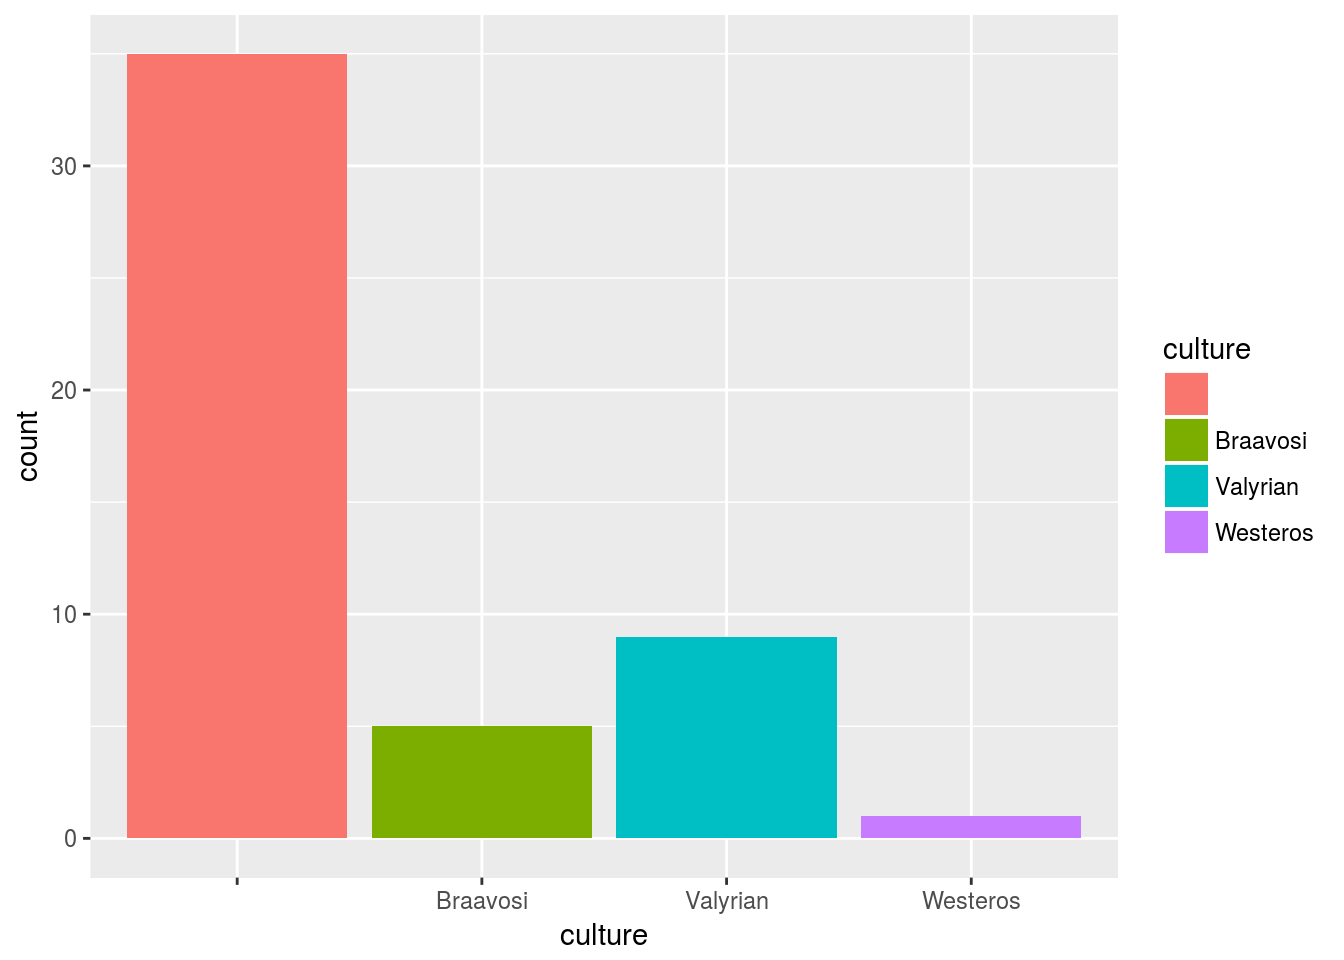
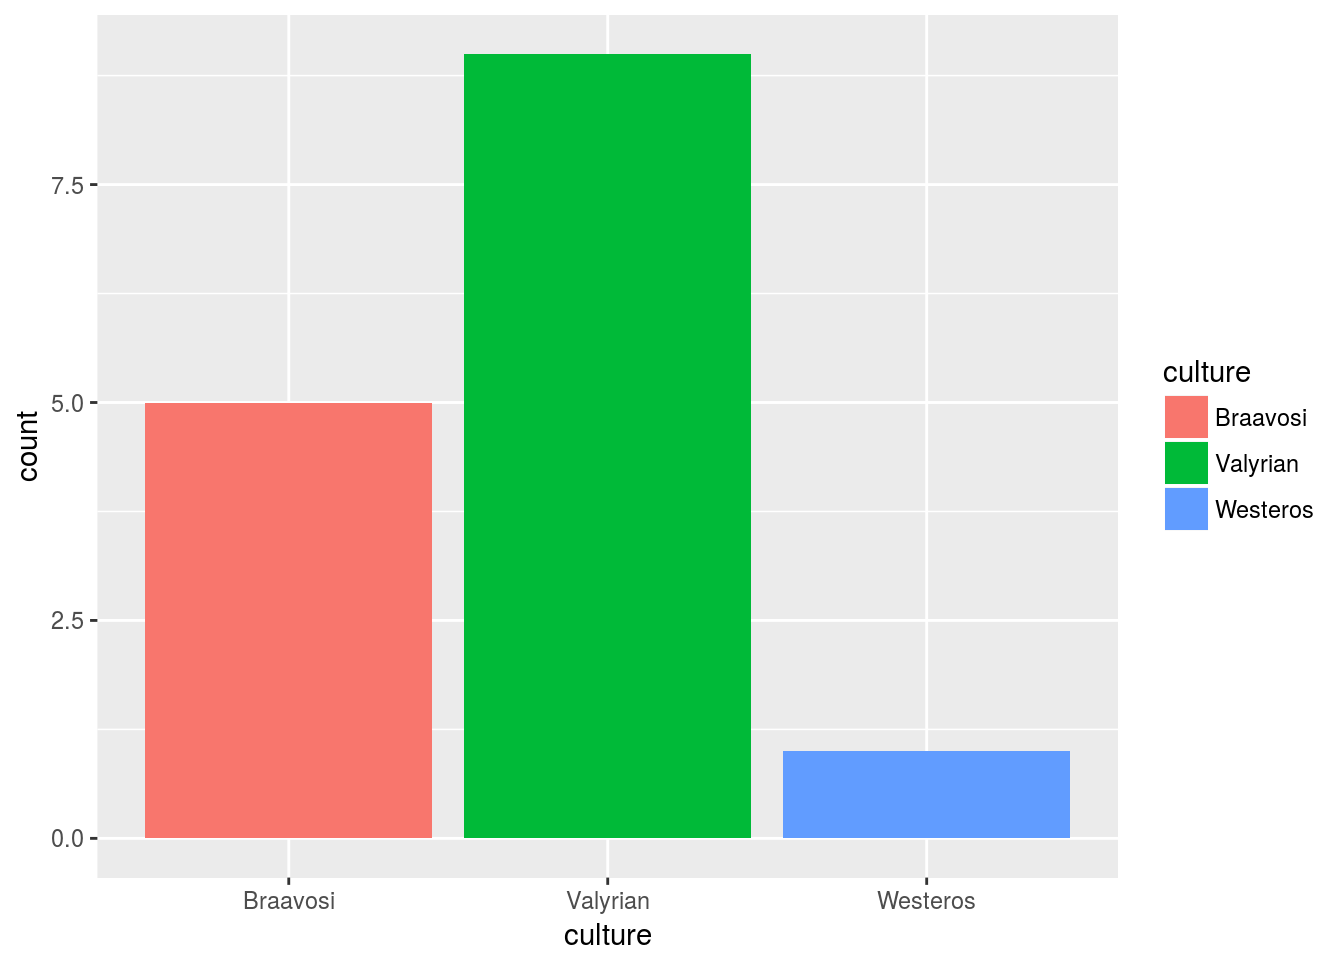
edited wrangling blog

diff --git a/public/posts/data-wrangling/index.html b/public/posts/data-wrangling/index.html
@@ -284,28 +284,27 @@ dummy_data_2 </code></pre>
 <pre><code>## # A tibble: 26 x 5
 ##    shop  churn_rate attrition join_rate sales
 ##    &lt;chr&gt;      &lt;dbl&gt;     &lt;dbl&gt;     &lt;dbl&gt; &lt;dbl&gt;
-##  1 A         0.816     0.0599    0.748   1782
-##  2 B         0.917     0.904     0.856   1621
-##  3 C         0.227     0.905     0.189  47083
-##  4 D         0.0998    0.306     0.989  33752
-##  5 E         0.358     0.664     0.426  38972
-##  6 F         0.701     0.514     0.826  48892
-##  7 G         0.0605    0.297     0.172  52671
-##  8 H         0.703     0.715     0.0578  6049
-##  9 I         0.216     0.556     0.0117 25885
-## 10 J         0.169     0.0167    0.652  18082
+##  1 A          0.378     0.698    0.663  13458
+##  2 B          0.671     0.722    0.0411 45121
+##  3 C          0.125     0.148    0.981  13213
+##  4 D          0.320     0.212    0.476  12900
+##  5 E          0.570     0.632    0.0736  4598
+##  6 F          0.585     0.655    0.417  28275
+##  7 G          0.946     0.872    0.633   3052
+##  8 H          0.332     0.706    0.207   4079
+##  9 I          0.481     0.550    0.212  38775
+## 10 J          0.412     0.603    0.807  30924
 ## # ... with 16 more rows</code></pre>
 <p>If we wanted to take the each shop row and multiply the columns together to find the multiplicative affect how would we do it?</p>
 <p>One way to do this is to use some form of apply function:</p>
 <pre class="r"><code>dummy_data_2 %&gt;%
   select(-1) %&gt;% 
   apply(function(x) prod(x),MARGIN = 1)</code></pre>
-<pre><code>##  [1]    65.13870  1151.37363  1827.84636  1021.85299  3946.76891
-##  [6] 14551.78797   162.76008   175.94442    36.40378    33.33664
-## [11]    99.92195  1182.09327    32.49529  1256.86748   336.57108
-## [16] 11513.52019  5213.89781    53.11338  2558.59682   384.98485
-## [21] 14616.62284   113.90007  3258.42216    15.73666  7553.95365
-## [26]   280.28230</code></pre>
+<pre><code>##  [1] 2354.20848  898.83070  240.11499  414.98638  121.94412 4519.44534
+##  [7] 1594.12227  197.32160 2177.76869 6194.68841 1230.71328  232.19827
+## [13] 8554.58622 1373.46879 2637.84225 9230.19167 4443.06977 3761.06395
+## [19] 1672.07343   31.21451 9297.11250 5828.84597  655.61483 3620.88779
+## [25]  148.30688 9168.15598</code></pre>
 <p>This feels sort of ugly and returns a vector… We would prefer to remain type stable here inside a dataframe.</p>
 <p>We could simply reshape this data so that we are infact summarizing over rows not columns:</p>
 <pre class="r"><code>dummy_data_2 %&gt;% 
@@ -313,18 +312,18 @@ dummy_data_2 </code></pre>
   group_by(shop) %&gt;% 
   summarise(prod = value %&gt;% prod)</code></pre>
 <pre><code>## # A tibble: 26 x 2
-##    shop     prod
-##    &lt;chr&gt;   &lt;dbl&gt;
-##  1 A        65.1
-##  2 B      1151  
-##  3 C      1828  
-##  4 D      1022  
-##  5 E      3947  
-##  6 F     14552  
-##  7 G       163  
-##  8 H       176  
-##  9 I        36.4
-## 10 J        33.3
+##    shop   prod
+##    &lt;chr&gt; &lt;dbl&gt;
+##  1 A      2354
+##  2 B       899
+##  3 C       240
+##  4 D       415
+##  5 E       122
+##  6 F      4519
+##  7 G      1594
+##  8 H       197
+##  9 I      2178
+## 10 J      6195
 ## # ... with 16 more rows</code></pre>
 <p>By reshaping the data we remain inside of a tidy context while leveraging our sql like backend <code>dplyr</code> to solve the problem</p>
 </div>
@@ -566,30 +565,65 @@ data_characters[[1]]</code></pre>
 <p>Put this into a dataframe:</p>
 <pre class="r"><code>GOT_df &lt;-
   tibble::tibble(char_name = data_characters %&gt;% map_chr(&quot;name&quot;),
-                 data_char = data_characters)
+                 data_char = data_characters) %&gt;% 
+    mutate(gender = data_char %&gt;% map_chr(&quot;gender&quot;)) %&gt;% 
+    mutate(culture = data_char %&gt;% map_chr(&quot;culture&quot;)) %&gt;% 
+    mutate(born = data_char %&gt;% map_chr(&quot;born&quot;)) %&gt;% 
+    mutate(died = data_char %&gt;% map_chr(&quot;died&quot;)) %&gt;% 
+    mutate(titles = data_char %&gt;% map(&quot;titles&quot;)) %&gt;% 
+    mutate(aliases = data_char %&gt;% map(&quot;aliases&quot;)) %&gt;% 
+    mutate(father = data_char %&gt;% map_chr(&quot;father&quot;)) %&gt;% 
+    mutate(mother = data_char %&gt;% map_chr(&quot;mother&quot;)) %&gt;% 
+    # mutate(spouse = data_char %&gt;% map(~.x %&gt;% pluck(&quot;spouse&quot;) %&gt;% httr::GET())) %&gt;% 
+    # mutate(allegiances = data_char %&gt;% map(~.x %&gt;% pluck(&quot;allegiances&quot;) %&gt;% httr::GET())) %&gt;%
+    mutate(playedBy = data_char %&gt;% map(&quot;playedBy&quot;))
 
 GOT_df</code></pre>
-<pre><code>## # A tibble: 50 x 2
-##    char_name data_char  
-##    &lt;chr&gt;     &lt;list&gt;     
-##  1 &quot;&quot;        &lt;list [16]&gt;
-##  2 Walder    &lt;list [16]&gt;
-##  3 &quot;&quot;        &lt;list [16]&gt;
-##  4 &quot;&quot;        &lt;list [16]&gt;
-##  5 &quot;&quot;        &lt;list [16]&gt;
-##  6 &quot;&quot;        &lt;list [16]&gt;
-##  7 &quot;&quot;        &lt;list [16]&gt;
-##  8 &quot;&quot;        &lt;list [16]&gt;
-##  9 &quot;&quot;        &lt;list [16]&gt;
-## 10 &quot;&quot;        &lt;list [16]&gt;
-## # ... with 40 more rows</code></pre>
+<pre><code>## # A tibble: 50 x 11
+##    char_name data_char  gender culture  born  died  titles  aliases father
+##    &lt;chr&gt;     &lt;list&gt;     &lt;chr&gt;  &lt;chr&gt;    &lt;chr&gt; &lt;chr&gt; &lt;list&gt;  &lt;list&gt;  &lt;chr&gt; 
+##  1 &quot;&quot;        &lt;list [16… Female Braavosi &quot;&quot;    &quot;&quot;    &lt;list … &lt;list … &quot;&quot;    
+##  2 Walder    &lt;list [16… Male   &quot;&quot;       &quot;&quot;    &quot;&quot;    &lt;list … &lt;list … &quot;&quot;    
+##  3 &quot;&quot;        &lt;list [16… Male   &quot;&quot;       &quot;&quot;    &quot;&quot;    &lt;list … &lt;list … &quot;&quot;    
+##  4 &quot;&quot;        &lt;list [16… Female Braavosi &quot;&quot;    &quot;&quot;    &lt;list … &lt;list … &quot;&quot;    
+##  5 &quot;&quot;        &lt;list [16… Male   &quot;&quot;       &quot;&quot;    &quot;&quot;    &lt;list … &lt;list … &quot;&quot;    
+##  6 &quot;&quot;        &lt;list [16… Female Braavosi &quot;&quot;    &quot;&quot;    &lt;list … &lt;list … &quot;&quot;    
+##  7 &quot;&quot;        &lt;list [16… Female &quot;&quot;       &quot;&quot;    &quot;&quot;    &lt;list … &lt;list … &quot;&quot;    
+##  8 &quot;&quot;        &lt;list [16… Male   &quot;&quot;       &quot;&quot;    &quot;&quot;    &lt;list … &lt;list … &quot;&quot;    
+##  9 &quot;&quot;        &lt;list [16… Female &quot;&quot;       &quot;&quot;    &quot;&quot;    &lt;list … &lt;list … &quot;&quot;    
+## 10 &quot;&quot;        &lt;list [16… Female Braavosi &quot;&quot;    &quot;&quot;    &lt;list … &lt;list … &quot;&quot;    
+## # ... with 40 more rows, and 2 more variables: mother &lt;chr&gt;,
+## #   playedBy &lt;list&gt;</code></pre>
+<p>So we can pull out the data from these nested lists into other columns or even apply models to them…</p>
 <p>Let’s visualize the cultures of all the characters:</p>
 <pre class="r"><code>GOT_df %&gt;% 
-  mutate(culture = data_char %&gt;% map_chr(&quot;culture&quot;)) %&gt;% 
+  filter(culture != &quot;&quot;) %&gt;% 
   # select(-data_char) %&gt;% 
   ggplot()+
   geom_bar(aes(x = culture, y = ..count.., fill = culture))</code></pre>
 <p><img src="../../posts/2018-03-27-data-wrangling_files/figure-html/unnamed-chunk-16-1.png" width="672" /></p>
+<p>OK, so in this sample sent back from the api we have this distribution of characters by cultures.</p>
+<p>How many people died?</p>
+<pre class="r"><code>GOT_df %&gt;% 
+  mutate(died = ifelse(died == &quot;&quot;,0,1)) %&gt;% 
+  # select(-data_char) %&gt;% 
+  ggplot()+
+  geom_bar(aes(y = died, x = culture, fill = culture), stat = &quot;identity&quot;)</code></pre>
+<p><img src="../../posts/2018-03-27-data-wrangling_files/figure-html/unnamed-chunk-17-1.png" width="672" /></p>
+<p>What’s the probability of dying if you have some sort of title:</p>
+<pre class="r"><code>GOT_df %&gt;% 
+  mutate(died = ifelse(died == &quot;&quot;,FALSE,TRUE)) %&gt;% 
+  mutate(has_title = titles %&gt;% map_lgl(~ifelse(any(.x != &quot;&quot;), TRUE, FALSE))) %&gt;% 
+  group_by(has_title,died) %&gt;% 
+  tally %&gt;% 
+  spread(key = died, value = n, sep = &quot;_&quot;) %&gt;% 
+  mutate(prob_of_dying = died_TRUE/(died_TRUE+died_FALSE))</code></pre>
+<pre><code>## # A tibble: 2 x 4
+## # Groups:   has_title [2]
+##   has_title died_FALSE died_TRUE prob_of_dying
+##   &lt;lgl&gt;          &lt;int&gt;     &lt;int&gt;         &lt;dbl&gt;
+## 1 F                 12         5         0.294
+## 2 T                 20        13         0.394</code></pre>
 </div>
 </div>
 </div>

diff --git a/content/posts/2018-03-27-data-wrangling.html b/content/posts/2018-03-27-data-wrangling.html
@@ -176,28 +176,27 @@ dummy_data_2 </code></pre>
 <pre><code>## # A tibble: 26 x 5
 ##    shop  churn_rate attrition join_rate sales
 ##    &lt;chr&gt;      &lt;dbl&gt;     &lt;dbl&gt;     &lt;dbl&gt; &lt;dbl&gt;
-##  1 A         0.816     0.0599    0.748   1782
-##  2 B         0.917     0.904     0.856   1621
-##  3 C         0.227     0.905     0.189  47083
-##  4 D         0.0998    0.306     0.989  33752
-##  5 E         0.358     0.664     0.426  38972
-##  6 F         0.701     0.514     0.826  48892
-##  7 G         0.0605    0.297     0.172  52671
-##  8 H         0.703     0.715     0.0578  6049
-##  9 I         0.216     0.556     0.0117 25885
-## 10 J         0.169     0.0167    0.652  18082
+##  1 A          0.378     0.698    0.663  13458
+##  2 B          0.671     0.722    0.0411 45121
+##  3 C          0.125     0.148    0.981  13213
+##  4 D          0.320     0.212    0.476  12900
+##  5 E          0.570     0.632    0.0736  4598
+##  6 F          0.585     0.655    0.417  28275
+##  7 G          0.946     0.872    0.633   3052
+##  8 H          0.332     0.706    0.207   4079
+##  9 I          0.481     0.550    0.212  38775
+## 10 J          0.412     0.603    0.807  30924
 ## # ... with 16 more rows</code></pre>
 <p>If we wanted to take the each shop row and multiply the columns together to find the multiplicative affect how would we do it?</p>
 <p>One way to do this is to use some form of apply function:</p>
 <pre class="r"><code>dummy_data_2 %&gt;%
   select(-1) %&gt;% 
   apply(function(x) prod(x),MARGIN = 1)</code></pre>
-<pre><code>##  [1]    65.13870  1151.37363  1827.84636  1021.85299  3946.76891
-##  [6] 14551.78797   162.76008   175.94442    36.40378    33.33664
-## [11]    99.92195  1182.09327    32.49529  1256.86748   336.57108
-## [16] 11513.52019  5213.89781    53.11338  2558.59682   384.98485
-## [21] 14616.62284   113.90007  3258.42216    15.73666  7553.95365
-## [26]   280.28230</code></pre>
+<pre><code>##  [1] 2354.20848  898.83070  240.11499  414.98638  121.94412 4519.44534
+##  [7] 1594.12227  197.32160 2177.76869 6194.68841 1230.71328  232.19827
+## [13] 8554.58622 1373.46879 2637.84225 9230.19167 4443.06977 3761.06395
+## [19] 1672.07343   31.21451 9297.11250 5828.84597  655.61483 3620.88779
+## [25]  148.30688 9168.15598</code></pre>
 <p>This feels sort of ugly and returns a vector… We would prefer to remain type stable here inside a dataframe.</p>
 <p>We could simply reshape this data so that we are infact summarizing over rows not columns:</p>
 <pre class="r"><code>dummy_data_2 %&gt;% 
@@ -205,18 +204,18 @@ dummy_data_2 </code></pre>
   group_by(shop) %&gt;% 
   summarise(prod = value %&gt;% prod)</code></pre>
 <pre><code>## # A tibble: 26 x 2
-##    shop     prod
-##    &lt;chr&gt;   &lt;dbl&gt;
-##  1 A        65.1
-##  2 B      1151  
-##  3 C      1828  
-##  4 D      1022  
-##  5 E      3947  
-##  6 F     14552  
-##  7 G       163  
-##  8 H       176  
-##  9 I        36.4
-## 10 J        33.3
+##    shop   prod
+##    &lt;chr&gt; &lt;dbl&gt;
+##  1 A      2354
+##  2 B       899
+##  3 C       240
+##  4 D       415
+##  5 E       122
+##  6 F      4519
+##  7 G      1594
+##  8 H       197
+##  9 I      2178
+## 10 J      6195
 ## # ... with 16 more rows</code></pre>
 <p>By reshaping the data we remain inside of a tidy context while leveraging our sql like backend <code>dplyr</code> to solve the problem</p>
 </div>
@@ -458,30 +457,65 @@ data_characters[[1]]</code></pre>
 <p>Put this into a dataframe:</p>
 <pre class="r"><code>GOT_df &lt;-
   tibble::tibble(char_name = data_characters %&gt;% map_chr(&quot;name&quot;),
-                 data_char = data_characters)
+                 data_char = data_characters) %&gt;% 
+    mutate(gender = data_char %&gt;% map_chr(&quot;gender&quot;)) %&gt;% 
+    mutate(culture = data_char %&gt;% map_chr(&quot;culture&quot;)) %&gt;% 
+    mutate(born = data_char %&gt;% map_chr(&quot;born&quot;)) %&gt;% 
+    mutate(died = data_char %&gt;% map_chr(&quot;died&quot;)) %&gt;% 
+    mutate(titles = data_char %&gt;% map(&quot;titles&quot;)) %&gt;% 
+    mutate(aliases = data_char %&gt;% map(&quot;aliases&quot;)) %&gt;% 
+    mutate(father = data_char %&gt;% map_chr(&quot;father&quot;)) %&gt;% 
+    mutate(mother = data_char %&gt;% map_chr(&quot;mother&quot;)) %&gt;% 
+    # mutate(spouse = data_char %&gt;% map(~.x %&gt;% pluck(&quot;spouse&quot;) %&gt;% httr::GET())) %&gt;% 
+    # mutate(allegiances = data_char %&gt;% map(~.x %&gt;% pluck(&quot;allegiances&quot;) %&gt;% httr::GET())) %&gt;%
+    mutate(playedBy = data_char %&gt;% map(&quot;playedBy&quot;))
 
 GOT_df</code></pre>
-<pre><code>## # A tibble: 50 x 2
-##    char_name data_char  
-##    &lt;chr&gt;     &lt;list&gt;     
-##  1 &quot;&quot;        &lt;list [16]&gt;
-##  2 Walder    &lt;list [16]&gt;
-##  3 &quot;&quot;        &lt;list [16]&gt;
-##  4 &quot;&quot;        &lt;list [16]&gt;
-##  5 &quot;&quot;        &lt;list [16]&gt;
-##  6 &quot;&quot;        &lt;list [16]&gt;
-##  7 &quot;&quot;        &lt;list [16]&gt;
-##  8 &quot;&quot;        &lt;list [16]&gt;
-##  9 &quot;&quot;        &lt;list [16]&gt;
-## 10 &quot;&quot;        &lt;list [16]&gt;
-## # ... with 40 more rows</code></pre>
+<pre><code>## # A tibble: 50 x 11
+##    char_name data_char  gender culture  born  died  titles  aliases father
+##    &lt;chr&gt;     &lt;list&gt;     &lt;chr&gt;  &lt;chr&gt;    &lt;chr&gt; &lt;chr&gt; &lt;list&gt;  &lt;list&gt;  &lt;chr&gt; 
+##  1 &quot;&quot;        &lt;list [16… Female Braavosi &quot;&quot;    &quot;&quot;    &lt;list … &lt;list … &quot;&quot;    
+##  2 Walder    &lt;list [16… Male   &quot;&quot;       &quot;&quot;    &quot;&quot;    &lt;list … &lt;list … &quot;&quot;    
+##  3 &quot;&quot;        &lt;list [16… Male   &quot;&quot;       &quot;&quot;    &quot;&quot;    &lt;list … &lt;list … &quot;&quot;    
+##  4 &quot;&quot;        &lt;list [16… Female Braavosi &quot;&quot;    &quot;&quot;    &lt;list … &lt;list … &quot;&quot;    
+##  5 &quot;&quot;        &lt;list [16… Male   &quot;&quot;       &quot;&quot;    &quot;&quot;    &lt;list … &lt;list … &quot;&quot;    
+##  6 &quot;&quot;        &lt;list [16… Female Braavosi &quot;&quot;    &quot;&quot;    &lt;list … &lt;list … &quot;&quot;    
+##  7 &quot;&quot;        &lt;list [16… Female &quot;&quot;       &quot;&quot;    &quot;&quot;    &lt;list … &lt;list … &quot;&quot;    
+##  8 &quot;&quot;        &lt;list [16… Male   &quot;&quot;       &quot;&quot;    &quot;&quot;    &lt;list … &lt;list … &quot;&quot;    
+##  9 &quot;&quot;        &lt;list [16… Female &quot;&quot;       &quot;&quot;    &quot;&quot;    &lt;list … &lt;list … &quot;&quot;    
+## 10 &quot;&quot;        &lt;list [16… Female Braavosi &quot;&quot;    &quot;&quot;    &lt;list … &lt;list … &quot;&quot;    
+## # ... with 40 more rows, and 2 more variables: mother &lt;chr&gt;,
+## #   playedBy &lt;list&gt;</code></pre>
+<p>So we can pull out the data from these nested lists into other columns or even apply models to them…</p>
 <p>Let’s visualize the cultures of all the characters:</p>
 <pre class="r"><code>GOT_df %&gt;% 
-  mutate(culture = data_char %&gt;% map_chr(&quot;culture&quot;)) %&gt;% 
+  filter(culture != &quot;&quot;) %&gt;% 
   # select(-data_char) %&gt;% 
   ggplot()+
   geom_bar(aes(x = culture, y = ..count.., fill = culture))</code></pre>
 <p><img src="/posts/2018-03-27-data-wrangling_files/figure-html/unnamed-chunk-16-1.png" width="672" /></p>
+<p>OK, so in this sample sent back from the api we have this distribution of characters by cultures.</p>
+<p>How many people died?</p>
+<pre class="r"><code>GOT_df %&gt;% 
+  mutate(died = ifelse(died == &quot;&quot;,0,1)) %&gt;% 
+  # select(-data_char) %&gt;% 
+  ggplot()+
+  geom_bar(aes(y = died, x = culture, fill = culture), stat = &quot;identity&quot;)</code></pre>
+<p><img src="/posts/2018-03-27-data-wrangling_files/figure-html/unnamed-chunk-17-1.png" width="672" /></p>
+<p>What’s the probability of dying if you have some sort of title:</p>
+<pre class="r"><code>GOT_df %&gt;% 
+  mutate(died = ifelse(died == &quot;&quot;,FALSE,TRUE)) %&gt;% 
+  mutate(has_title = titles %&gt;% map_lgl(~ifelse(any(.x != &quot;&quot;), TRUE, FALSE))) %&gt;% 
+  group_by(has_title,died) %&gt;% 
+  tally %&gt;% 
+  spread(key = died, value = n, sep = &quot;_&quot;) %&gt;% 
+  mutate(prob_of_dying = died_TRUE/(died_TRUE+died_FALSE))</code></pre>
+<pre><code>## # A tibble: 2 x 4
+## # Groups:   has_title [2]
+##   has_title died_FALSE died_TRUE prob_of_dying
+##   &lt;lgl&gt;          &lt;int&gt;     &lt;int&gt;         &lt;dbl&gt;
+## 1 F                 12         5         0.294
+## 2 T                 20        13         0.394</code></pre>
 </div>
 </div>
 </div>
